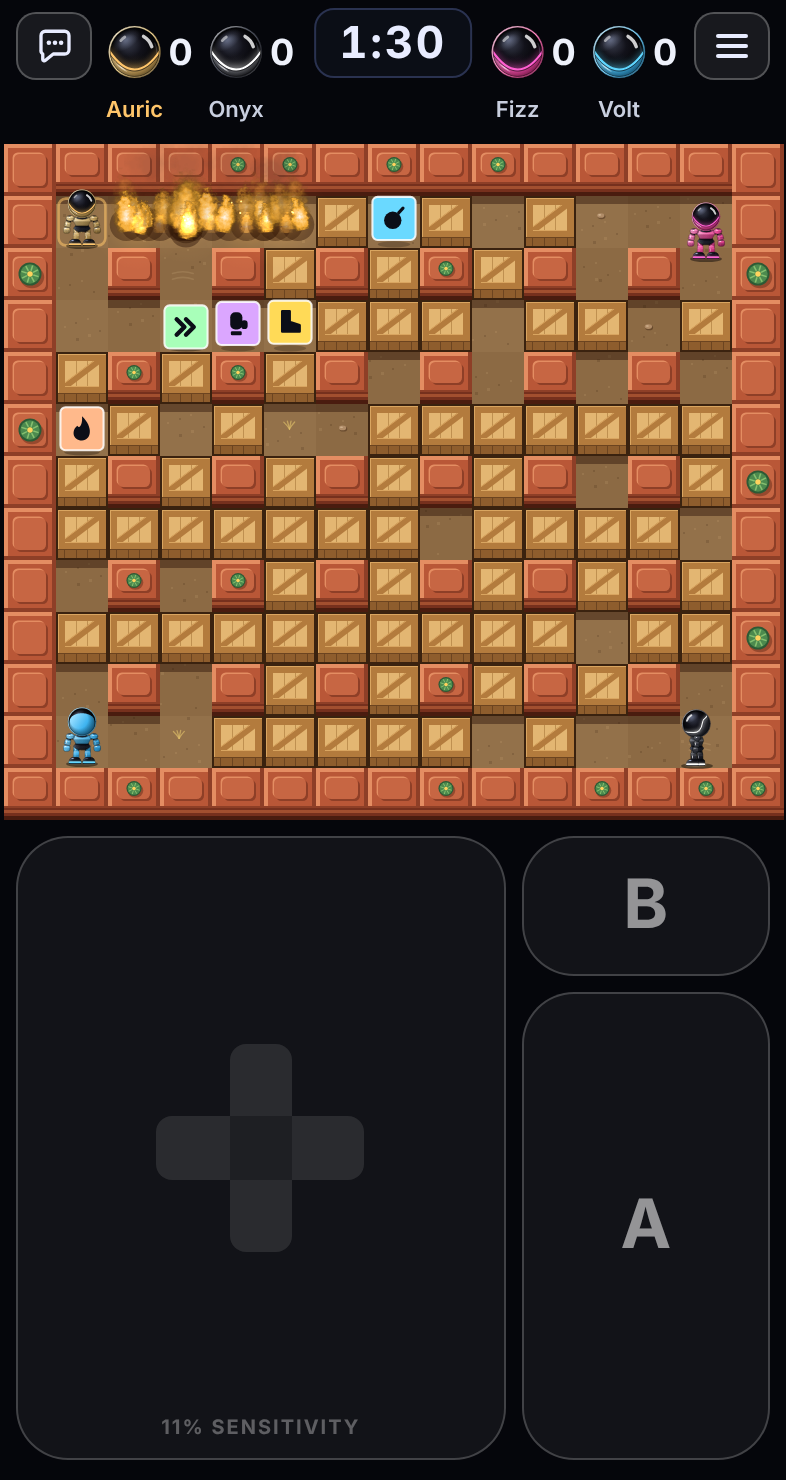
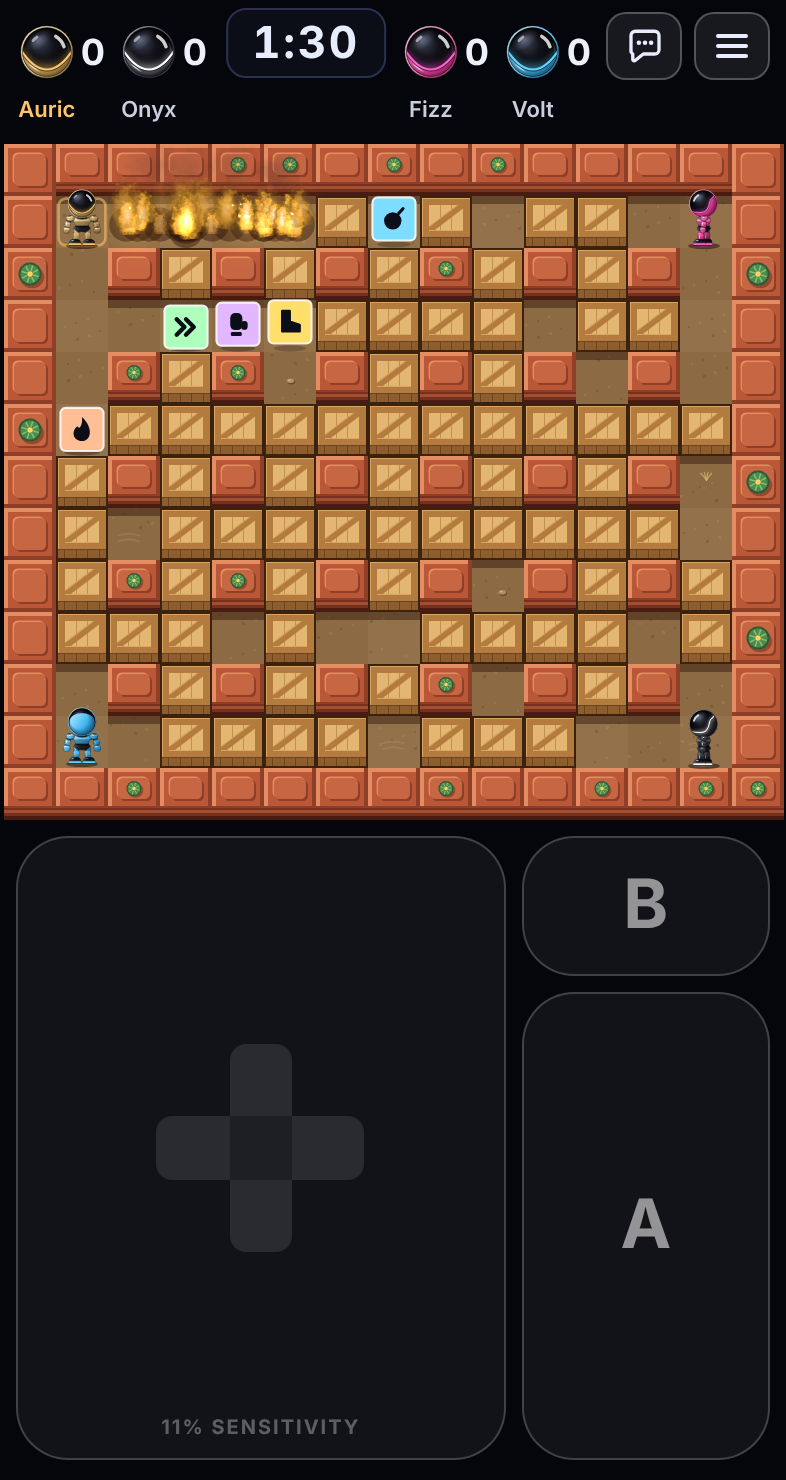
Fix the P1 tag, the quick menu's switch; chat beside the menu, bubbles under names
- The lobby's P1 tag stretched on Ready: the new panels used the class `pop`,
  which is the tag's pop-in animation. Renamed `quick-pop`; a page test checks
  no rule styles `.pop` on its own.
- Quick settings: the switch now shows its change (refreshed with Settings),
  and its first card is drawn whole.
- The chat button is always just left of the menu button; upright with four
  players the scoreboard and timer share the room left of it.
- A chat line shows in a bubble under the speaker's name on the scoreboard,
  not over the robot.

Claude-Session: https://claude.ai/code/session_011ftAyX6mTgujq1JC9DxE3X

diff --git a/src/main.ts b/src/main.ts
@@ -448,30 +448,29 @@ function layout(): void {
     scoreHeadMax = Math.max(5, Math.min(HEAD_R, (h - scoreNameSize - 4) / 2));
     scoreCells = Array.from({ length: places }, (_, i) => ({ x: 6 + i * cell, w: cell, y: 1 + scoreHeadMax, ny: h - scoreNameSize / 2 - 1 }));
   } else if (stacked) {
+    // The quick chat button sits left of the menu button (the owner's ask, 24 November 2026), so the two take
+    // the right of the top bar. The four places and the timer share the rest, two places each side of the
+    // timer, which sits in the middle of that room (a little left of the screen's middle) so the places stay
+    // as wide as they were. (Until then the far left was kept clear to match the menu button.)
     const half = (timer.offsetWidth || 80) / 2 + 5;
-    const btn = $('menuBtn').getBoundingClientRect();
-    const edge = (btn.width ? Math.min(W - btn.left, 60) : 48) + 4;
-    const cell = Math.max(24, (W / 2 - half - edge) / 2);
+    const left = 6;
+    const right = W - CHAT_RIGHT - CHAT_W - 4;
+    const mid = Math.round((left + right) / 2);
+    timerMid = mid;
+    const cell = Math.max(24, (mid - half - left) / 2);
     scoreNameSize = 11;
-    scoreCells = [edge, edge + cell, W / 2 + half, W / 2 + half + cell].map((x) => ({ x, w: cell, y: topBar / 2 + 3, ny: topBar + Math.min(9, infoRow / 2) }));
+    scoreCells = [left, left + cell, mid + half, mid + half + cell].map((x) => ({ x, w: cell, y: topBar / 2 + 3, ny: topBar + Math.min(9, infoRow / 2) }));
   } else {
     box.left = Math.round((side - box.width) / 2);
     const across = places > 4 ? perRow : 4;
     const cell = box.width / across;
     scoreCells = Array.from({ length: places }, (_, i) => ({ x: (i % across) * cell, w: cell, y: ROW * Math.floor(i / across) + 22, ny: ROW * Math.floor(i / across) + 22 + HEAD_R + 11 }));
   }
-  // The quick chat button (the owner's ask, 24 November 2026: left of the menu). Upright with four players the
-  // scoreboard fills the top bar right up to the menu button, so there it takes the far left, the place kept
-  // clear to match the menu button; everywhere else it sits just left of the menu button.
-  const chatBtn = $('chatBtn');
-  const farLeft = stacked && places <= 4;
-  chatBtn.style.left = farLeft ? '8px' : '';
-  chatBtn.style.right = farLeft ? '' : '52px';
-  const chatPanel = $('chatPanel');
-  chatPanel.style.top = quickMenu.style.top = '46px';
-  chatPanel.style.left = farLeft ? '8px' : '';
-  chatPanel.style.right = farLeft ? '' : '8px';
-  quickMenu.style.right = '8px';
+  // the quick chat button, just left of the menu button (the owner's ask, 24 November 2026), and the two panels under them
+  timer.style.left = stacked && places <= 4 ? `${timerMid}px` : timer.style.left;
+  $('chatBtn').style.right = `${CHAT_RIGHT}px`;
+  $('chatPanel').style.top = quickMenu.style.top = '46px';
+  $('chatPanel').style.right = quickMenu.style.right = '8px';
   // sideways with more than four players the scoreboard has two rows: the swipe pad starts under them
   touch.style.setProperty('--pad-top', `${stacked ? 88 : Math.max(88, box.top + box.height + 6)}px`);
   score.style.left = `${box.left}px`;
@@ -491,6 +490,11 @@ function layout(): void {
   redrawStatic();
 }
 
+/** The quick chat button: its distance from the right of the screen (just left of the menu button) and its width. */
+const CHAT_RIGHT = 52;
+const CHAT_W = 38;
+/** Upright with four places or fewer: where the timer's middle is (layout). */
+let timerMid = 0;
 /** Where layout() put the result panel: its top, and whether it lies over the controls (upright). */
 let resultPlace = { top: 0, stacked: true };
 /**
@@ -571,12 +575,15 @@ function fitText(c: CanvasRenderingContext2D, text: string, max: number): string
   return `${t}…`;
 }
 
+/** Where each player's name is on the page, as drawScore last drew it (the quick chat's bubbles hang under them). */
+const nameAt: ({ x: number; y: number } | undefined)[] = [];
 function drawScore(): void {
   const places = Array.from({ length: Math.max(4, world.players.length) }, (_, i) => world.players[i]);
   const winner = world.over ? world.over.winner : -1;
   const key = places.map((p, i) => (p ? `${p.colorId}t${p.team}${p.alive ? '' : 'x'}${p.zombie ? 'z' : ''}${wins[i]}l${p.lives}${scoreName(i)}` : '-')).join('|') + `|${winner}|${leader}|${score.width}x${score.height}`;
   if (key === scoreKey) return;
   scoreKey = key;
+  nameAt.length = 0;
   const k = score.width / (parseFloat(score.style.width) || score.width); // screen pixels to canvas pixels
   sctx.setTransform(1, 0, 0, 1, 0, 0);
   sctx.clearRect(0, 0, score.width, score.height);
@@ -638,7 +645,10 @@ function drawScore(): void {
     const shown = fitText(sctx, name, cell.w - 4);
     const half = sctx.measureText(shown).width / 2;
     // centred under the head, kept inside its own place
-    sctx.fillText(shown, Math.max(cell.x + 2 + half, Math.min(cx, cell.x + cell.w - 2 - half)), cell.ny);
+    const nameX = Math.max(cell.x + 2 + half, Math.min(cx, cell.x + cell.w - 2 - half));
+    sctx.fillText(shown, nameX, cell.ny);
+    // where the name is on the page: a quick chat line hangs under it (bubbles in quick.ts)
+    nameAt[i] = { x: (parseFloat(score.style.left) || 0) + nameX, y: (parseFloat(score.style.top) || 0) + cell.ny + scoreNameSize / 2 };
     sctx.globalAlpha = 1;
     sctx.textAlign = 'left';
     said.push(`${nameOf(i)}${p.team >= 0 ? `, ${TEAMS[p.team].name},` : ''} ${wins[i]}${i === leader ? ' (in the lead)' : ''}`);
@@ -780,7 +790,7 @@ function render(time: number): void {
   }
   drawTimer();
   drawScore();
-  bubbles.place(w, parseFloat(canvas.style.left) || 0, parseFloat(canvas.style.top) || 0, (parseFloat(canvas.style.width) || 0) / w.w, window.innerWidth);
+  bubbles.place((i) => nameAt[i] ?? null, window.innerWidth);
 }
 
 /**
@@ -2717,6 +2727,7 @@ $('appInstall').addEventListener('click', () => void install());
 
 function refreshPrefs(): void {
   remap?.refresh();
+  quick?.refresh(); // (the quick menu shows some of the same settings)
   refreshSound();
   refreshPad();
   refreshGfx();

diff --git a/src/page.html b/src/page.html
@@ -128,10 +128,10 @@
   #chatBtn[aria-expanded='true'] { color: #1a1406; background: var(--accent); border-color: var(--accent); }
   #menuBtn { -webkit-touch-callout: none; user-select: none; -webkit-user-select: none; }
   /* the panels over the round: they never pause it, and close on a tap outside */
-  .pop { position: fixed; z-index: 3; width: min(320px, calc(100vw - 16px)); max-height: calc(100vh - 60px); overflow-y: auto; display: flex; flex-direction: column; gap: 8px; padding: 10px; background: rgba(16, 20, 32, 0.97); border: 1px solid rgba(255, 197, 106, 0.45); border-radius: 16px; box-shadow: 0 16px 34px rgba(0, 0, 0, 0.6); animation: tip-in 0.16s ease-out; }
-  .pop[hidden] { display: none; }
-  .pop h3 { margin: 2px 4px 0; font: 700 13px/1 var(--font-display); letter-spacing: 0.14em; text-transform: uppercase; color: var(--accent); }
-  .pop .opts .opt { background: #131827; }
+  .quick-pop { position: fixed; z-index: 3; width: min(320px, calc(100vw - 16px)); max-height: calc(100vh - 60px); overflow-y: auto; display: flex; flex-direction: column; gap: 8px; padding: 10px; background: rgba(16, 20, 32, 0.97); border: 1px solid rgba(255, 197, 106, 0.45); border-radius: 16px; box-shadow: 0 16px 34px rgba(0, 0, 0, 0.6); animation: tip-in 0.16s ease-out; }
+  .quick-pop[hidden] { display: none; }
+  .quick-pop h3 { margin: 2px 4px 0; font: 700 13px/1 var(--font-display); letter-spacing: 0.14em; text-transform: uppercase; color: var(--accent); }
+  .quick-pop .opts > .opt, .quick-pop .opts > .opt-group { background: #131827; }
   .chat-tabs { display: grid; grid-template-columns: repeat(5, minmax(0, 1fr)); gap: 4px; }
   .chat-tab { display: flex; flex-direction: column; align-items: center; gap: 3px; min-width: 0; padding: 6px 2px 5px; font: 700 10px/1.1 var(--font-display); letter-spacing: 0.02em; text-transform: none; color: var(--ink-dim); background: #131827; border: 1px solid transparent; border-radius: 10px; }
   .chat-tab span:last-child { max-width: 100%; overflow: hidden; text-overflow: ellipsis; white-space: nowrap; }
@@ -143,14 +143,14 @@
   .chat-own { display: grid; grid-template-columns: minmax(0, 1fr) auto; gap: 6px; }
   .chat-own[hidden] { display: none; }
   .chat-own input { min-width: 0; font-size: 16px; }
-  /* what was said, in a bubble over the robot that said it, edged in its colour */
+  /* what was said, in a bubble under the speaker's name on the scoreboard, edged in its colour, its tail pointing up at the name */
   #bubbles { position: fixed; inset: 0; z-index: 1; pointer-events: none; overflow: hidden; }
-  .bubble { position: absolute; left: 0; top: 0; max-width: min(200px, 60vw); padding: 5px 10px 6px; font: 700 13px/1.2 var(--font-body); color: #141824; background: #fffaf0; border: 2px solid var(--who, #ffc56a); border-radius: 12px; box-shadow: 0 6px 14px rgba(0, 0, 0, 0.45); overflow-wrap: anywhere; text-align: center; animation: bubble-in 0.18s ease-out; transition: opacity 0.45s; }
-  .bubble::after { content: ''; position: absolute; left: var(--tail, 50%); bottom: -7px; width: 10px; height: 10px; margin-left: -5px; background: #fffaf0; border: solid var(--who, #ffc56a); border-width: 0 2px 2px 0; transform: rotate(45deg); }
+  .bubble { position: absolute; left: 0; top: 0; z-index: 1; max-width: min(190px, 56vw); padding: 3px 8px 4px; font: 700 12px/1.2 var(--font-body); color: #141824; background: #fffaf0; border: 2px solid var(--who, #ffc56a); border-radius: 12px; box-shadow: 0 6px 14px rgba(0, 0, 0, 0.45); overflow-wrap: anywhere; text-align: center; animation: bubble-in 0.18s ease-out; transition: opacity 0.45s; }
+  .bubble::before { content: ''; position: absolute; left: var(--tail, 50%); top: -7px; width: 10px; height: 10px; margin-left: -5px; background: #fffaf0; border: solid var(--who, #ffc56a); border-width: 2px 0 0 2px; transform: rotate(45deg); }
   .bubble.going { opacity: 0; }
   @keyframes bubble-in { from { opacity: 0; scale: 0.7; } }
-  @media (prefers-reduced-motion: reduce) { .bubble, .pop { animation: none; } }
-  body.calm .bubble, body.calm .pop { animation: none; }
+  @media (prefers-reduced-motion: reduce) { .bubble, .quick-pop { animation: none; } }
+  body.calm .bubble, body.calm .quick-pop { animation: none; }
   body.menu-open #chatBtn, body.title-open #chatBtn, body.menu-open #bubbles, body.title-open #bubbles { visibility: hidden; }
   /* a short line over the top of the arena during a round (showTip in main.ts): how angels play */
   #playTip { position: fixed; transform: translateX(-50%); z-index: 2; max-width: 94vw; padding: 5px 12px; white-space: nowrap; overflow: hidden; text-overflow: ellipsis; text-transform: none; letter-spacing: 0; pointer-events: none; text-align: center; font: 600 13px/1.3 var(--font-body); color: #fff6e0; background: rgba(12, 16, 28, 0.82); border: 1px solid rgba(255, 220, 140, 0.55); border-radius: 10px; }
@@ -1138,7 +1138,7 @@
   <svg viewBox="0 0 24 24" aria-hidden="true"><path d="M4 5.5A2.5 2.5 0 0 1 6.5 3h11A2.5 2.5 0 0 1 20 5.5v8a2.5 2.5 0 0 1-2.5 2.5H11l-4.6 3.7c-.5.4-1.4.1-1.4-.6V16h0A2.5 2.5 0 0 1 4 13.5z" fill="none" stroke="currentColor" stroke-width="1.9" stroke-linejoin="round"/><circle cx="8.5" cy="9.6" r="1.3" fill="currentColor"/><circle cx="12" cy="9.6" r="1.3" fill="currentColor"/><circle cx="15.5" cy="9.6" r="1.3" fill="currentColor"/></svg>
 </button>
 <div id="bubbles" aria-live="polite"></div>
-<section id="chatPanel" class="pop" role="dialog" aria-label="Quick chat" hidden>
+<section id="chatPanel" class="quick-pop" role="dialog" aria-label="Quick chat" hidden>
   <div class="chat-tabs" role="toolbar" aria-label="Kinds of line"></div>
   <div class="chat-lines"></div>
   <form class="chat-own" hidden>
@@ -1147,7 +1147,7 @@
   </form>
 </section>
 <!-- the quick menu: the menu button held down (quick.ts) -->
-<section id="quickMenu" class="pop" role="dialog" aria-labelledby="quickTitle" hidden>
+<section id="quickMenu" class="quick-pop" role="dialog" aria-labelledby="quickTitle" hidden>
   <h3 id="quickTitle">Quick settings</h3>
   <div class="opts"></div>
 </section>

diff --git a/src/quick.ts b/src/quick.ts
@@ -1,9 +1,10 @@
 /**
  * Two small things over the round, neither of which pauses it (the owner's asks, 24 November 2026):
  *
- * - Quick chat: the speech-bubble button in the top bar opens a panel of five groups of lines, four ready-made
- *   ones each and a Custom one to type in. A line picked shows in a bubble over the robot that said it, for
- *   everyone in the room (online the server passes it on: `chat` in net.ts).
+ * - Quick chat: the speech-bubble button in the top bar, left of the menu button, opens a panel of five groups
+ *   of lines, four ready-made ones each and a Custom one to type in. A line picked shows in a bubble under the
+ *   name of the player who said it on the scoreboard, for everyone in the room (online the server passes it
+ *   on: `chat` in net.ts).
  * - The quick menu: holding the menu button down opens a small panel of a few settings (sound on or off, the
  *   volume, movement sensitivity) without stopping the round. A tap opens the full menu as before.
  *
@@ -129,8 +130,10 @@ export function createChat(btn: HTMLElement, panel: HTMLElement, say: (text: str
 }
 
 /**
- * The bubbles over the robots. `say` puts one over a player (replacing what it last said); `place` keeps them
- * over their robots, called every frame the arena is drawn, with where the arena is on the page.
+ * What each player said, in a bubble under their name on the scoreboard at the top of the screen, so it never
+ * covers the arena (the owner's ask, 24 November 2026: over the robot it was in the way). `say` puts one under a
+ * player's name (replacing what it last said); `place` keeps them there, called every frame, with where each
+ * player's name is on the page (`at`, null for a player with no place on the scoreboard).
  */
 export function createBubbles(layer: HTMLElement, colourOf: (player: number) => string) {
   const shown = new Map<number, { el: HTMLElement; until: number }>();
@@ -144,24 +147,21 @@ export function createBubbles(layer: HTMLElement, colourOf: (player: number) => 
       layer.append(el);
       shown.set(player, { el, until: performance.now() + BUBBLE_MS });
     },
-    place(w: World, left: number, top: number, tile: number, width: number): void {
+    place(at: (player: number) => { x: number; y: number } | null, width: number): void {
       if (!shown.size) return;
       const now = performance.now();
       for (const [i, b] of shown) {
-        const p = w.players[i];
-        if (!p || now > b.until) {
+        const a = at(i);
+        if (!a || now > b.until) {
           b.el.remove();
           shown.delete(i);
           continue;
         }
-        // over the helmet, kept on the screen
+        // under the name, its tail pointing up at it, kept on the screen
         const bw = b.el.offsetWidth;
-        const at = left + (p.x + 0.5) * tile;
-        const x = Math.max(4, Math.min(width - 4 - bw, at - bw / 2));
-        const y = Math.max(b.el.offsetHeight + 4, top + (p.y - 0.62) * tile);
-        b.el.style.transform = `translate(${Math.round(x)}px, ${Math.round(y - b.el.offsetHeight)}px)`;
-        // the tail points at the robot even when the bubble is pushed in from the edge
-        b.el.style.setProperty('--tail', `${Math.round(Math.max(14, Math.min(bw - 14, at - x)))}px`);
+        const x = Math.max(4, Math.min(width - 4 - bw, a.x - bw / 2));
+        b.el.style.transform = `translate(${Math.round(x)}px, ${Math.round(a.y + 7)}px)`;
+        b.el.style.setProperty('--tail', `${Math.round(Math.max(12, Math.min(bw - 12, a.x - x)))}px`);
         b.el.classList.toggle('going', b.until - now < 500);
       }
     },
@@ -188,8 +188,8 @@ export function createQuickMenu(btn: HTMLElement, panel: HTMLElement, opts: Opt[
     panel.hidden = true;
   };
   const open = (): void => {
-    refresh();
     panel.hidden = false;
+    refresh();
     navigator.vibrate?.(12);
   };
   btn.addEventListener('pointerdown', (e) => {

diff --git a/tests/page.test.ts b/tests/page.test.ts
@@ -39,4 +39,11 @@ const off = main.indexOf("document.documentElement.classList.remove('booting')")
 assert.ok(first > 0 && off > first, 'main.ts removes "booting" after the first layout()');
 assert.ok(main.lastIndexOf('\nnewWorld();', off) > 0 && main.slice(first, off).split('\n').length < 6, '...right after it');
 
+// Short class names that pieces of the page add for a moment (the P1 tag's and the presence dot's `pop`, a
+// button's `flash`) have no rule of their own: a panel once borrowed `.pop` for its look, and the P1 tag under
+// your colour stretched into a long box when Ready made it pop (24 November 2026).
+for (const name of ['pop']) {
+  assert.ok(!new RegExp(`(^|[\\s,}])\\.${name}\\s*[{,\\[]`).test(css), `no rule styles .${name} on its own (only with the element it is added to)`);
+}
+
 console.log('page checks passed');

diff --git a/CLAUDE.md b/CLAUDE.md
@@ -14,7 +14,7 @@ npm run build      # writes dist/index.html, the whole game in one file
 ## Where things are
 
 - `src/sim.ts`: all game rules. `src/swipe.ts`: the swipe pad and Movement sensitivity. `src/bot.ts`: the CPU players.
-- `src/input.ts`, `src/render.ts`, `src/audio.ts`: input wiring, drawing, sound. `src/quick.ts`: the quick chat, its bubbles over the robots, and the quick menu (the menu button held). `src/robot.ts`: how the robot is drawn (handed on through `render.ts`).
+- `src/input.ts`, `src/render.ts`, `src/audio.ts`: input wiring, drawing, sound. `src/quick.ts`: the quick chat, its bubbles under the names on the scoreboard, and the quick menu (the menu button held). `src/robot.ts`: how the robot is drawn (handed on through `render.ts`).
 - `src/main.ts`: loop, title screen, Settings, the menu during a match, the score, layout. `src/lobby.ts`: the lobby. `src/setup.ts`: what the lobby and Settings choose, and saving it. `src/ui.ts`: the menus' controls. `src/title.ts`: the title screen's picture. `src/page.html`: markup and styles.
 - Online play (`docs/ONLINE.md`): `src/net.ts` (the messages, input codes, checksums: pure), `src/room.ts` (one room: lobby, host, the match, run on the server; no network or clock of its own), `src/worker.ts` (the Cloudflare server: a Durable Object per room code), `src/online.ts` (the page's connection), `src/predict.ts` (the round on the page: the picture run ahead of the server so your robot moves at once; pure, the time is handed in). `wrangler.jsonc` says what is uploaded; GitHub uploads it on every push to `main`. The game is at https://bomberbot.bomberbot.workers.dev.
 - Website and app (Settings › App): `src/app.ts` (home screen, notifications on the page), `src/push.ts` (signing and locking a notification), `Friends` in `src/worker.ts` (who gets them), `src/sw.js` (works offline, shows notifications). The icon: `drawIcon` in `src/title.ts`.
@@ -56,7 +56,7 @@ Do not undo these unless asked. The reasons are in `docs/ROADMAP.md` and `docs/C
 - A breakable block breaking crumbles (`drawCrumble` in `render.ts`; the owner's ask, November 2026; it used to flash white and vanish): over the time a blast lasts it shudders as cracks spread, then collapses in one of four ways picked by the tile, so blocks breaking side by side differ (the owner's ask: collapsing and crumbling in almost all directions, a few different ways at random): slump (sags and spreads on every side), cave in (drops in towards its middle), topple (goes over one way, the far side sliding furthest), split (cracks down the middle, the halves falling apart). The pieces are rough stones of five to seven corners and every size, from grit to chunks a third of the block across, on a jittered 5 by 5 grid plus a scatter of grit, cut from the block's own picture (the owner's ask: rocks of all sizes and shapes, more dense); each starts at its own moment, small ones rolling further, sinks, tips, gathers dust and fades as rubble; a few small pieces skitter off on every side; a low dust cloud (blue-grey for bricks, tan for crates). It burst outwards and up at first, then fell straight down; both were turned down.
 - Midnight's bricks have more detail (the owner's ask): each brick its own shade, lit top and left and shaded bottom and right, sunk joints, specks, a chipped corner and a hairline crack here and there, in four variants so neighbours differ (`drawBricks`, `softVariant`).
 - The menu during a match has a mute button (a speaker, red with a cross when off) left of the key (the owner's ask): one tap switches all sound off or on, the same switch as Settings › Sound › Sound effects (`pauseMute`).
-- Quick chat and the quick menu (`src/quick.ts`; the owner's asks, 24 November 2026), neither pausing the round, both closing on a tap outside (the tap still counts) or Escape: **holding the menu button** (`HOLD_MS` 420) opens **Quick settings** under it (Sound effects with Volume under it, Movement sensitivity; `createQuickMenu`, `#quickMenu`), a tap still opening the full menu. A **speech-bubble button** (`#chatBtn`) opens the chat panel (`createChat`, `#chatPanel`): five kinds along its top, **Hello**, **Taunts**, **Sorry**, **Hype** (four lines each, `CHAT_GROUPS`, Claude's words) and **Custom** (a box, 40 characters, `CHAT_MAX`). A line shows 3.6 s in a bubble over the robot, edged in its colour (`createBubbles`, `#bubbles`, `.bubble`; text, never markup); online the server passes it to everyone (`chat` in net.ts and room.ts, `cleanChat`, one line every 1.5 s each, `CHAT_GAP_MS`; `heard` in main.ts; someone not in the round, a line at the top). Asked for left of the menu: upright with four players or fewer the scoreboard fills the bar beside the menu, so there the button is at the far left (the place kept clear to match the menu button); otherwise just left of the menu button (`layout`). Online `PROTOCOL` 11.
+- Quick chat and the quick menu (`src/quick.ts`; the owner's asks, 24 November 2026), neither pausing the round, both closing on a tap outside (the tap still counts) or Escape: **holding the menu button** (`HOLD_MS` 420) opens **Quick settings** under it (Sound effects with Volume under it, Movement sensitivity; `createQuickMenu`, `#quickMenu`; refreshed by `refreshPrefs` like Settings' pages, or its switch does not show its change), a tap still opening the full menu. A **speech-bubble button** (`#chatBtn`), always just left of the menu button (`CHAT_RIGHT`; the owner's ask, the same day: at first it took the far left upright with four players), opens the chat panel (`createChat`, `#chatPanel`): five kinds along its top, **Hello**, **Taunts**, **Sorry**, **Hype** (four lines each, `CHAT_GROUPS`, Claude's words) and **Custom** (a box, 40 characters, `CHAT_MAX`). A line shows 3.6 s in a bubble under the speaker's name on the scoreboard, its tail pointing up at the name, edged in their colour (`createBubbles`, `#bubbles`, `.bubble`, `nameAt` from `drawScore`; text, never markup; the owner's ask, the same day: over the robot it was in the way of the game); online the server passes it to everyone (`chat` in net.ts and room.ts, `cleanChat`, one line every 1.5 s each, `CHAT_GAP_MS`; `heard` in main.ts; someone not in the round, a line at the top). The panels' class is `quick-pop`: a bare `.pop` rule once stretched the lobby's P1 tag, which pops with that class (`tests/page.test.ts` checks no rule styles `.pop` on its own). Online `PROTOCOL` 11.
 - The menu during a match has a key button (a key icon) at its top right, just left of the gear (the owner's ask): it opens **Key** (`showKey`, `#keySheet`), every power-up as it looks in the arena with what it does (`ITEM_NAMES`), then the falling-block mark and the crown. Drawn with the game's own drawing (`drawItemTile`, `drawHead`). Done, Escape or a tap outside closes it.
 - No note when Next round hands a CPU player the round at random (the owner's ask): the point just shows on the scoreboard.
 - The lobby's way back to the title is a house (`lobbyBack`), so it does not look like the Match page's ‹ that only turns the page (`lobbyPrev`; the owner's ask, 18 November 2026). The menu during a match shows the match's facts (players, arena, round length, rounds to win, other rules, time left, ping) each in a small bubble of its own, in centred lines (`.info-chips`, `pauseInfo`), and has no "You are out" chip: the standings say OUT beside your name (both the owner's asks, the same day).
@@ -72,9 +72,9 @@ Do not undo these unless asked. The reasons are in `docs/ROADMAP.md` and `docs/C
 - A clean rectangle in the middle is never touched (`KEEP_OPEN_W`, `KEEP_OPEN_H`, `keptSize`, `keptOpen`): at least 7 across by 5 down, its edges always open rows and columns, never pillars (the owner's ask, 20 November 2026: on Standard the 7 by 5 had pillars on its edges and did not end as a rectangle), so 9 by 7 on Standard (51 tiles to stand on; two rings fall, 62 blocks), 7 by 5 on Mini and Big (29 tiles); grown for seven or eight players, 7 by 5 on Mini and Standard, 9 by 7 on Big. It was a 5 by 5 square (`KEEP_OPEN`) until 18 November 2026, then 7 by 5 everywhere. The Closing in hint says the size for the arena pictured. The CPU players' "square" (`squareBold`, `inSquare`) is this area. When the blocks stop the round goes on there until someone wins; it has no time limit. The first version closed the whole arena and half the rounds were draws on the last tile: do not go back to that. Online `PROTOCOL` 7.
 - The last robot standing wins even if a block gets it a moment later; robots under the same block draw.
 - A blast starts 1 tile long each way (`START_FIRE`); each flame power-up adds a tile, up to 8. It started at 2.
-- The timer is centred in the top bar (`#timer`, `drawTimer` in `main.ts`): white, amber for the last 30 seconds, red for the last ten and after. Sideways it sits over the side column. The strip of collected power-ups was removed: do not bring it back unless asked. The pad caption is centred.
+- The timer is centred in the top bar (`#timer`, `drawTimer` in `main.ts`; upright with four players or fewer, centred in the room left of the chat and menu buttons, `timerMid`, a little left of the screen's middle, since 24 November 2026): white, amber for the last 30 seconds, red for the last ten and after. Sideways it sits over the side column. The strip of collected power-ups was removed: do not bring it back unless asked. The pad caption is centred.
 - Upright phone, top to bottom: top bar (46 px) holding the scoreboard and the timer, a blank line one block high kept for information to come (`INFO_ROWS` in `layout()`, passed to the styles as `--info-row`), the arena, then the controls. The pad and A gave up that block of height; B keeps its size (`--b-height` in `page.html`). Sideways has no such line: the scoreboard is a row under the timer in the side column.
-- The scoreboard (`#score`, `drawScore` in `main.ts`; `layout()` sets `scoreCells`): four heads in the top bar, two each side of the timer, each player's rounds won to the right of its head, yours first. The far left is left clear to match the menu button on the far right. A win adds one, a draw nothing. A player out of the current round is dimmed with crosses for eyes; a place with no player is a grey head with no number. `wins` lasts until the page is closed; a setting for how many rounds make a match is still to come. It was a row under the top bar with the numbers underneath: do not go back to that unless asked.
+- The scoreboard (`#score`, `drawScore` in `main.ts`; `layout()` sets `scoreCells`): four heads in the top bar, two each side of the timer, each player's rounds won to the right of its head, yours first. The two pairs and the timer share the room left of the quick chat and menu buttons (the far left was kept clear to match the menu button until the chat button came, 24 November 2026). A win adds one, a draw nothing. A player out of the current round is dimmed with crosses for eyes; a place with no player is a grey head with no number. `wins` lasts until the page is closed; a setting for how many rounds make a match is still to come. It was a row under the top bar with the numbers underneath: do not go back to that unless asked.
 - The player in the lead wears a crooked crown (`leader` in `main.ts`, `drawCrown` and `Pose.crown` in `robot.ts`) on the scoreboard and on its robot. Nobody has it before the first win; it changes hands only when another player gets strictly ahead.
 - The end of a round: when you are knocked out for good (no life left, and not an angel) a panel says how, and the round carries on behind it so its winner still gets the win; when the round is decided the panel says who won. The panel (`#resultCard`) never covers the arena: over the controls when upright, in the side column otherwise. Once a round is decided nobody is given any input, nothing more can happen to the winner, and no more blocks start to fall.
 - Knocked out (`drawPlayer` in `render.ts`, 1.5 s, `DEATH_TICKS` 90): burnt black with crosses for eyes, crumbling into ash that drifts up, while a pale ghost in a faint suit colour, with angel wings and a halo (`drawWings`, `drawHalo`), floats up out of the arena to the top of the screen and fades as it nears the top (`drawGhosts` in `render.ts`, on its own layer `#ghosts`; `GHOST_SPEED`, `GHOST_FADE`; `deadTicks` counts on to `GHOST_TICKS` 300 for it). It rose 1.5 tiles at first, then 3. Under a fallen block only the ghost. The winner does the victory dance they picked (`danceFrame` in `dances.ts`).

diff --git a/docs/ROADMAP.md b/docs/ROADMAP.md
@@ -244,6 +244,7 @@ The rules were written with this in mind from the start: they use no browser fea
 - 23 November 2026 (the owner): Hard CPU players more aggressive, using every power-up: he watched a Hard fail to knock out a Beginner. Hard now hunts before it shops (`hunt` 4, `kitSense`), bores through bricks towards rivals (`tunnel`), plays bombs together (`combos`: bombs dropped on the run that shut a rival in, and the bomb that closes a rival's last way out), throws bombs onto rivals with the glove (`throwAttack`) and kicks them with the boot (on the run, walking to the spot behind a bomb in line, and drop-and-kick down a lane). One against one it beat a Beginner 59 of 60 (23 of 40 before), 48 of them before the timer ran out. Beginner and Normal unchanged.
 - 23 November 2026 (the owner): online, a green dot on each connected person's card (grey while away); leaving the app for a while no longer loses your place (10 minutes in the lobby, 2 for a host, the page reconnecting at once on coming back); the plane can be steered online (the input mask wiped its aim). Modes on the Match page between the map and the rules: Classic (default), Hardcore (first everything maxed out; too hardcore, so the same evening only the start: 8 bombs, a blast of 8, top speed, the rest as Classic; then the glove very rare in it, with a new Very rare step for How often; then half as common, Rare) and Random (rules picked at random for every match, shown in the rules).
 - 24 November 2026 (the owner): the plane turns tighter again and is slightly faster (3.3 tiles a second, about 122° a second; it was 3 and 93.75°). Holding the menu button down opens a quick menu over the round (sound on or off, volume, movement sensitivity), which does not pause it. Quick chat: a speech-bubble button in the top bar opens five kinds of line (Hello, Taunts, Sorry, Hype, four ready-made lines each, and Custom to type up to 40 characters), said in a bubble over your robot, online for everyone in the room. Asked for left of the menu: upright with four players the scoreboard fills that space, so there it takes the far left, the place kept clear to match the menu button (just left of the menu everywhere else). A fourth mode, **Item Drop**: Classic with power-ups at 20% density (60% usual) and the new **Item drop** setting on (Arena group): a robot knocked out drops what it collected round where it fell, for anyone to pick up. Online `PROTOCOL` 11.
+- 24 November 2026, later (the owner, after trying it): the lobby's P1 tag stretched into a long box on Ready: the new panels' `.pop` class was the name of the tag's pop-in animation; renamed `quick-pop`, with a test. The quick menu's switch did not show its change (the panel was not refreshed with the Settings pages) and its first card's edge was cut off: both fixed. The chat button is always just left of the menu button; upright with four players or fewer the scoreboard and timer share the room left of it, the timer a little left of the middle. A chat line now shows in a bubble under the speaker's name on the scoreboard, not over the robot, where it was in the way of the game.
 - 19 November 2026 (the owner): every slider has a line across its bar where its usual setting is (the defaults; on the Match page, the defaults for the arena shown, so Round length's line moves with the arena).
 - 19 November 2026 (the owner): under Custom power-ups each power-up has its own on/off switch, with How often (Rare, Normal, Lots) under it while it is on (the slider's Off step went into the switch). Bricks became **Brick density**, a percentage of the arena's open floor, 0% to 100% (78%, the old Normal, by default).
 - 19 November 2026 (the owner): the extra bomb and the flame lost their switches under Custom power-ups (they have only How often, and are always in the mix: `ALWAYS_ON`; a setup saved with them off reads as on). Brick density goes in steps of 5%; the usual became 80%, the step nearest the old 78% (`SOFT_DENSITY` in sim.ts), which adds about two bricks and one power-up to an arena. A percentage saved between steps goes to the nearest one.

diff --git a/docs/CONTROLS.md b/docs/CONTROLS.md
@@ -26,7 +26,7 @@ Which side the pad is on is a setting, **Steering thumb**. With *Left thumb* (th
 
 Held sideways, the pad runs down one edge and B and A down the other, either side of the arena. The panels are see-through.
 
-The **scoreboard** is in the top bar: four heads, two on each side of the timer, each with the rounds that player has won to its right, and a crown on whoever is in the lead (see [GAME-RULES.md](GAME-RULES.md)). The two pairs are placed to match: the same room is left clear at the far left as the menu button takes at the far right. Held sideways, the four sit in a row under the timer, over the column beside the arena.
+The **scoreboard** is in the top bar: four heads, two on each side of the timer, each with the rounds that player has won to its right, and a crown on whoever is in the lead (see [GAME-RULES.md](GAME-RULES.md)). The two pairs and the timer share the room left of the quick chat and menu buttons, so the timer sits a little left of the middle (until 24 November 2026 the far left was kept clear to match the menu button). Held sideways, the four sit in a row under the timer, over the column beside the arena.
 
 The line under the top bar is blank, kept for information to come. It is exactly as tall as one block of the arena (`INFO_ROWS` in `layout()` in `main.ts`). The scoreboard was in it at first, with the numbers under the heads; it moved up beside the timer in play-testing. Making room for the line moved the arena and the controls down by one block: the swipe pad and A are one block shorter than they were, and B is the same size, one block lower. Held sideways there is no such line; the arena already fills the height.
 
@@ -65,7 +65,7 @@ The **menu during a match** (the three bars at the top right, or Escape) pauses 
 
 **Holding the menu button down** (about 0.4 s) opens the **quick menu** in place of the menu: a small panel under it with **Sound effects** on or off, the **Volume** under it, and **Movement sensitivity**. The round does not pause. A tap anywhere outside, or Escape, closes it; a plain tap on the button still opens the full menu. (The owner's ask, 24 November 2026.)
 
-**Quick chat**: the speech-bubble button at the top (upright with four players or fewer at the far left, the place kept clear to match the menu button, since the scoreboard fills the bar beside the menu; otherwise just left of the menu button) opens a panel of five kinds of line along its top: **Hello**, **Taunts**, **Sorry**, **Hype** and **Custom**. The first four each have four ready-made lines; Custom has a box to type up to 40 characters and Send. A line picked shows for about 3.5 s in a bubble over your robot, edged in its colour; online, everyone in the room sees it over your robot (someone not in the round, as a line at the top). One line every 1.5 s at most. The round does not pause; a tap outside closes the panel. (The owner's ask, 24 November 2026.)
+**Quick chat**: the speech-bubble button at the top right, just left of the menu button, opens a panel of five kinds of line along its top: **Hello**, **Taunts**, **Sorry**, **Hype** and **Custom**. The first four each have four ready-made lines; Custom has a box to type up to 40 characters and Send. A line picked shows for about 3.5 s in a bubble under your name on the scoreboard at the top, edged in your colour, so it never covers the arena; online, everyone in the room sees it under your name (someone not in the round, as a line at the top). One line every 1.5 s at most. The round does not pause; a tap outside closes the panel. (The owner's ask, 24 November 2026; at first the bubble was over the robot, in the way of the game, and the button was at the far left with four players or fewer.)
 
 When a round ends, the result panel offers **Next round** and **Menu**. When someone has won the match it offers **Rematch** (same players and rules, the score back to 0) and **Lobby**.
 

diff --git a/docs/ONLINE.md b/docs/ONLINE.md
@@ -51,7 +51,7 @@ The picture's tick is read off a clock (`frame` in `predict.ts`). Frames come on
 - **The plane online** (fixed 23 November 2026): the server masked every input with `IN_ALL`, which was
   2079, not a mask (31 + 32 × 64); it wiped the plane's steering, so a plane could not be steered online.
   `IN_ALL` is now 4095 (`tests/room.test.ts` sends every aim through), `PROTOCOL` 9.
-- **Quick chat** (24 November 2026): a line picked or typed in the chat panel goes to the server (`{ t: 'chat', text }`), which tidies it (`cleanChat` in net.ts: one line, at most `CHAT_MAX` 40 characters), keeps each person to one line every 1.5 s (`CHAT_GAP_MS`) and sends it to everyone in the room, the sender included (`{ t: 'chat', id, text }`). Each page puts it in a bubble over that person's robot (`heard` in main.ts, `createBubbles` in quick.ts), always as text, never as markup. `PROTOCOL` 11 (with Item drop and the faster plane).
+- **Quick chat** (24 November 2026): a line picked or typed in the chat panel goes to the server (`{ t: 'chat', text }`), which tidies it (`cleanChat` in net.ts: one line, at most `CHAT_MAX` 40 characters), keeps each person to one line every 1.5 s (`CHAT_GAP_MS`) and sends it to everyone in the room, the sender included (`{ t: 'chat', id, text }`). Each page puts it in a bubble under that person's name on the scoreboard (`heard` in main.ts, `createBubbles` in quick.ts), always as text, never as markup. `PROTOCOL` 11 (with Item drop and the faster plane).
 - **Someone joining during a match** waits in the lobby (read-only) and plays from the next match.
 - The page opened as a file (as when it is sent to a phone) still plays online: it connects to the address above.
 

diff --git a/docs/CODE-GUIDE.md b/docs/CODE-GUIDE.md
@@ -153,7 +153,7 @@ The pieces every menu is built from, so each setting works the same with a finge
 
 ### `src/quick.ts`: quick chat and the quick menu
 
-Two small panels over the round that never pause it. `createChat` builds the chat panel from `CHAT_GROUPS` (five kinds, the last, Custom, a box to type in) and calls back with the line picked; main.ts shows it at once on this screen or sends it to the room online. `createBubbles` keeps a bubble over each robot that said something, placed every frame the arena is drawn (`place`, from `render` in main.ts). `createQuickMenu` opens a few settings (`Opt`s from ui.ts) when the menu button is held down, and still opens the full menu on a tap. Both close on a press outside them, which still goes through to the game.
+Two small panels over the round that never pause it. `createChat` builds the chat panel from `CHAT_GROUPS` (five kinds, the last, Custom, a box to type in) and calls back with the line picked; main.ts shows it at once on this screen or sends it to the room online. `createBubbles` keeps a bubble under the scoreboard name of each player who said something, placed every frame the arena is drawn (`place`, from `render` in main.ts, with where `drawScore` put each name, `nameAt`). `createQuickMenu` opens a few settings (`Opt`s from ui.ts) when the menu button is held down, and still opens the full menu on a tap. Both close on a press outside them, which still goes through to the game.
 
 ### `src/title.ts`: the title screen's picture
 
